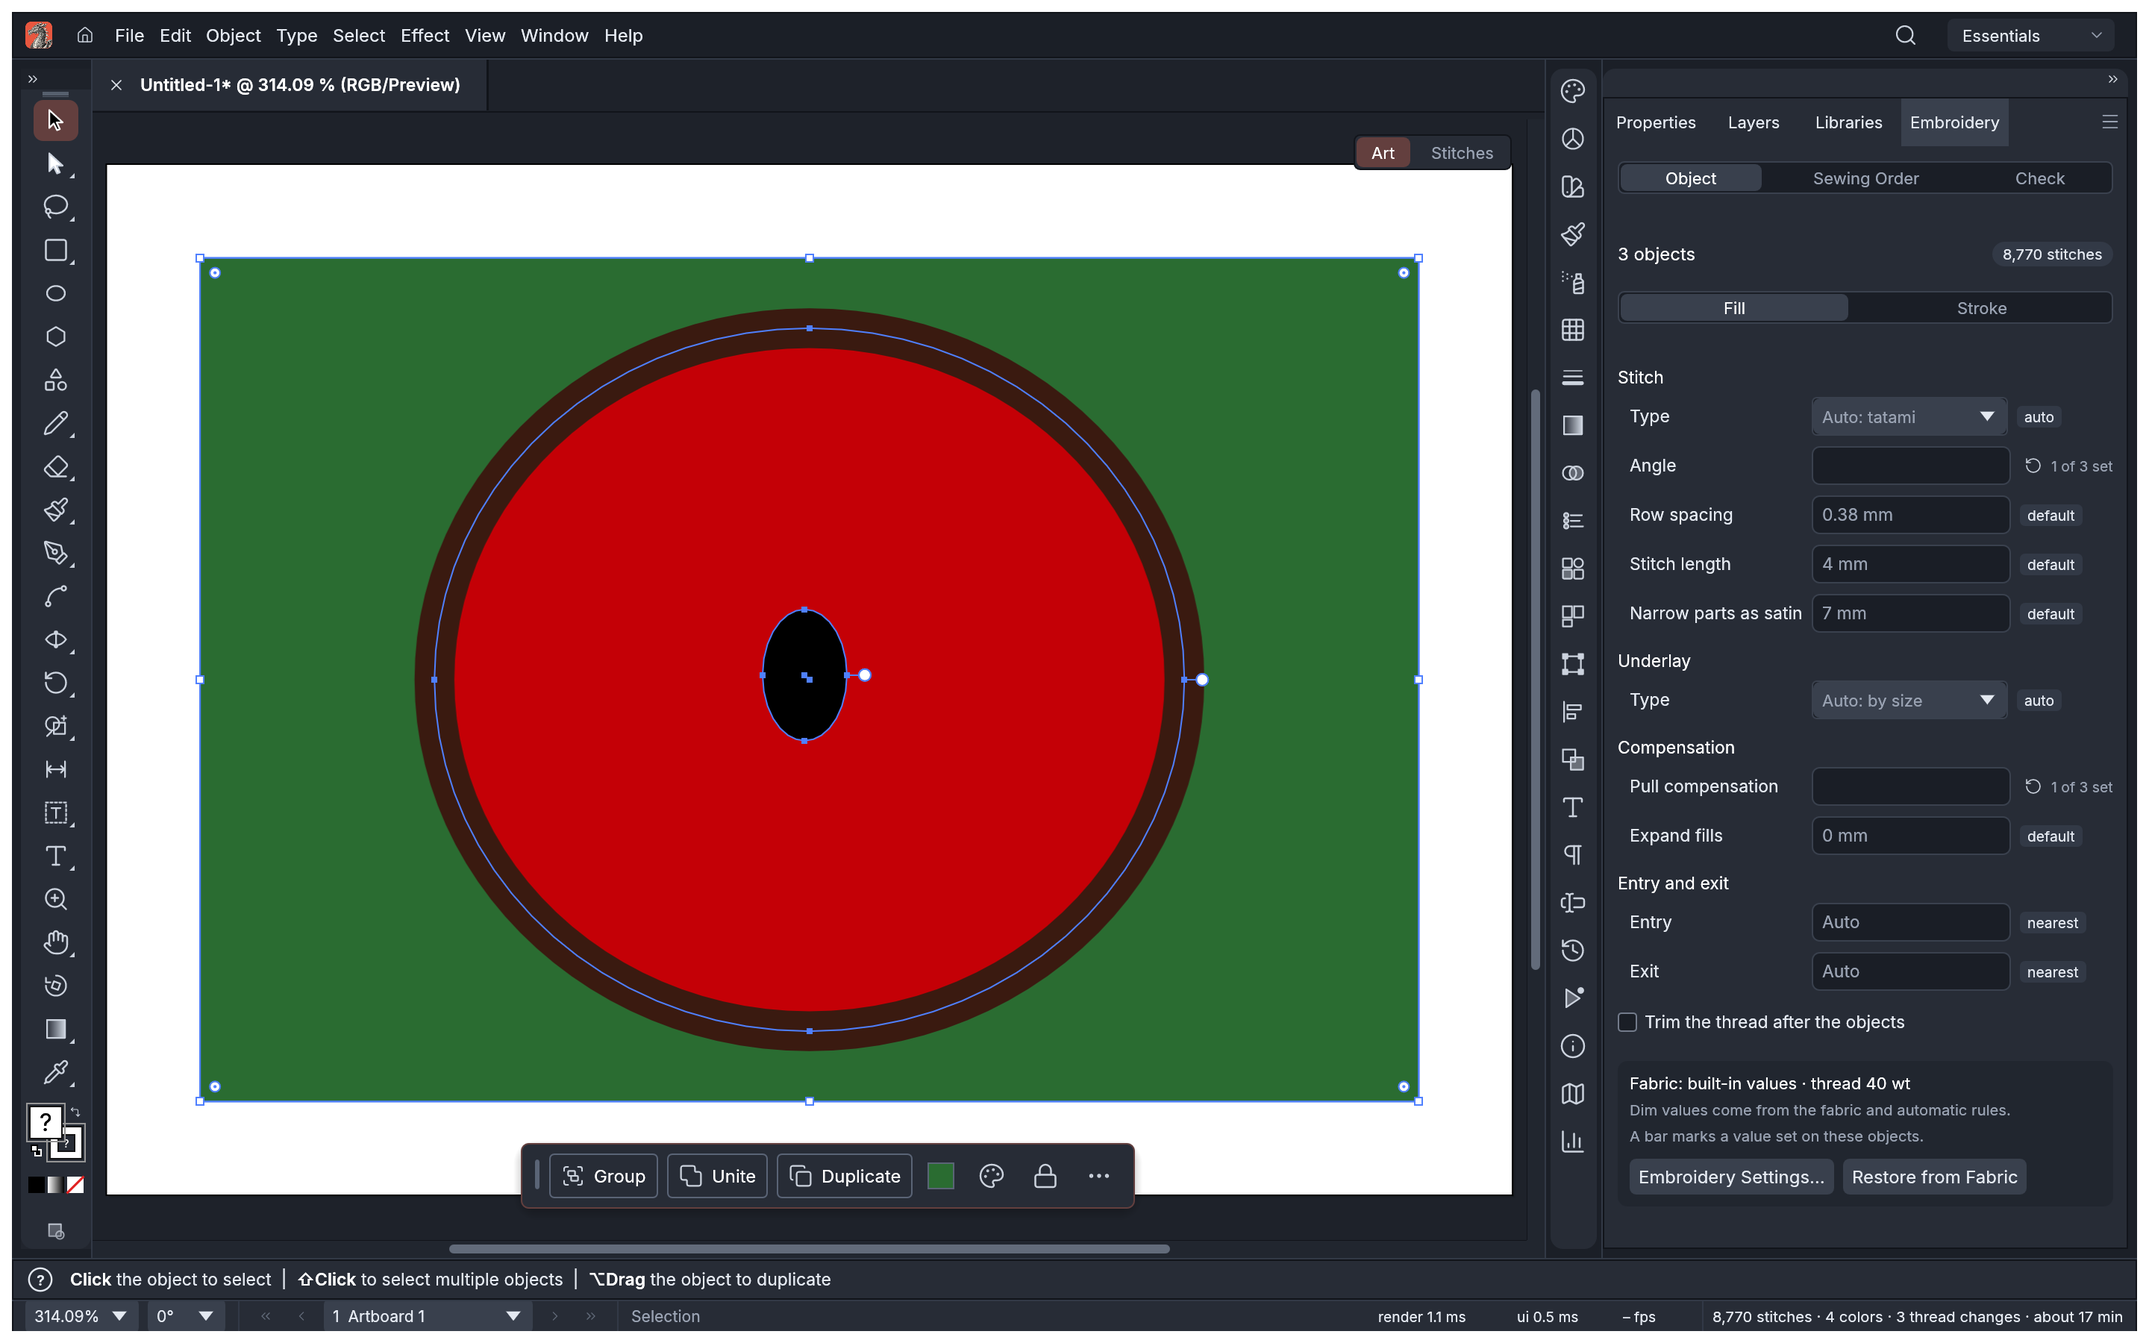
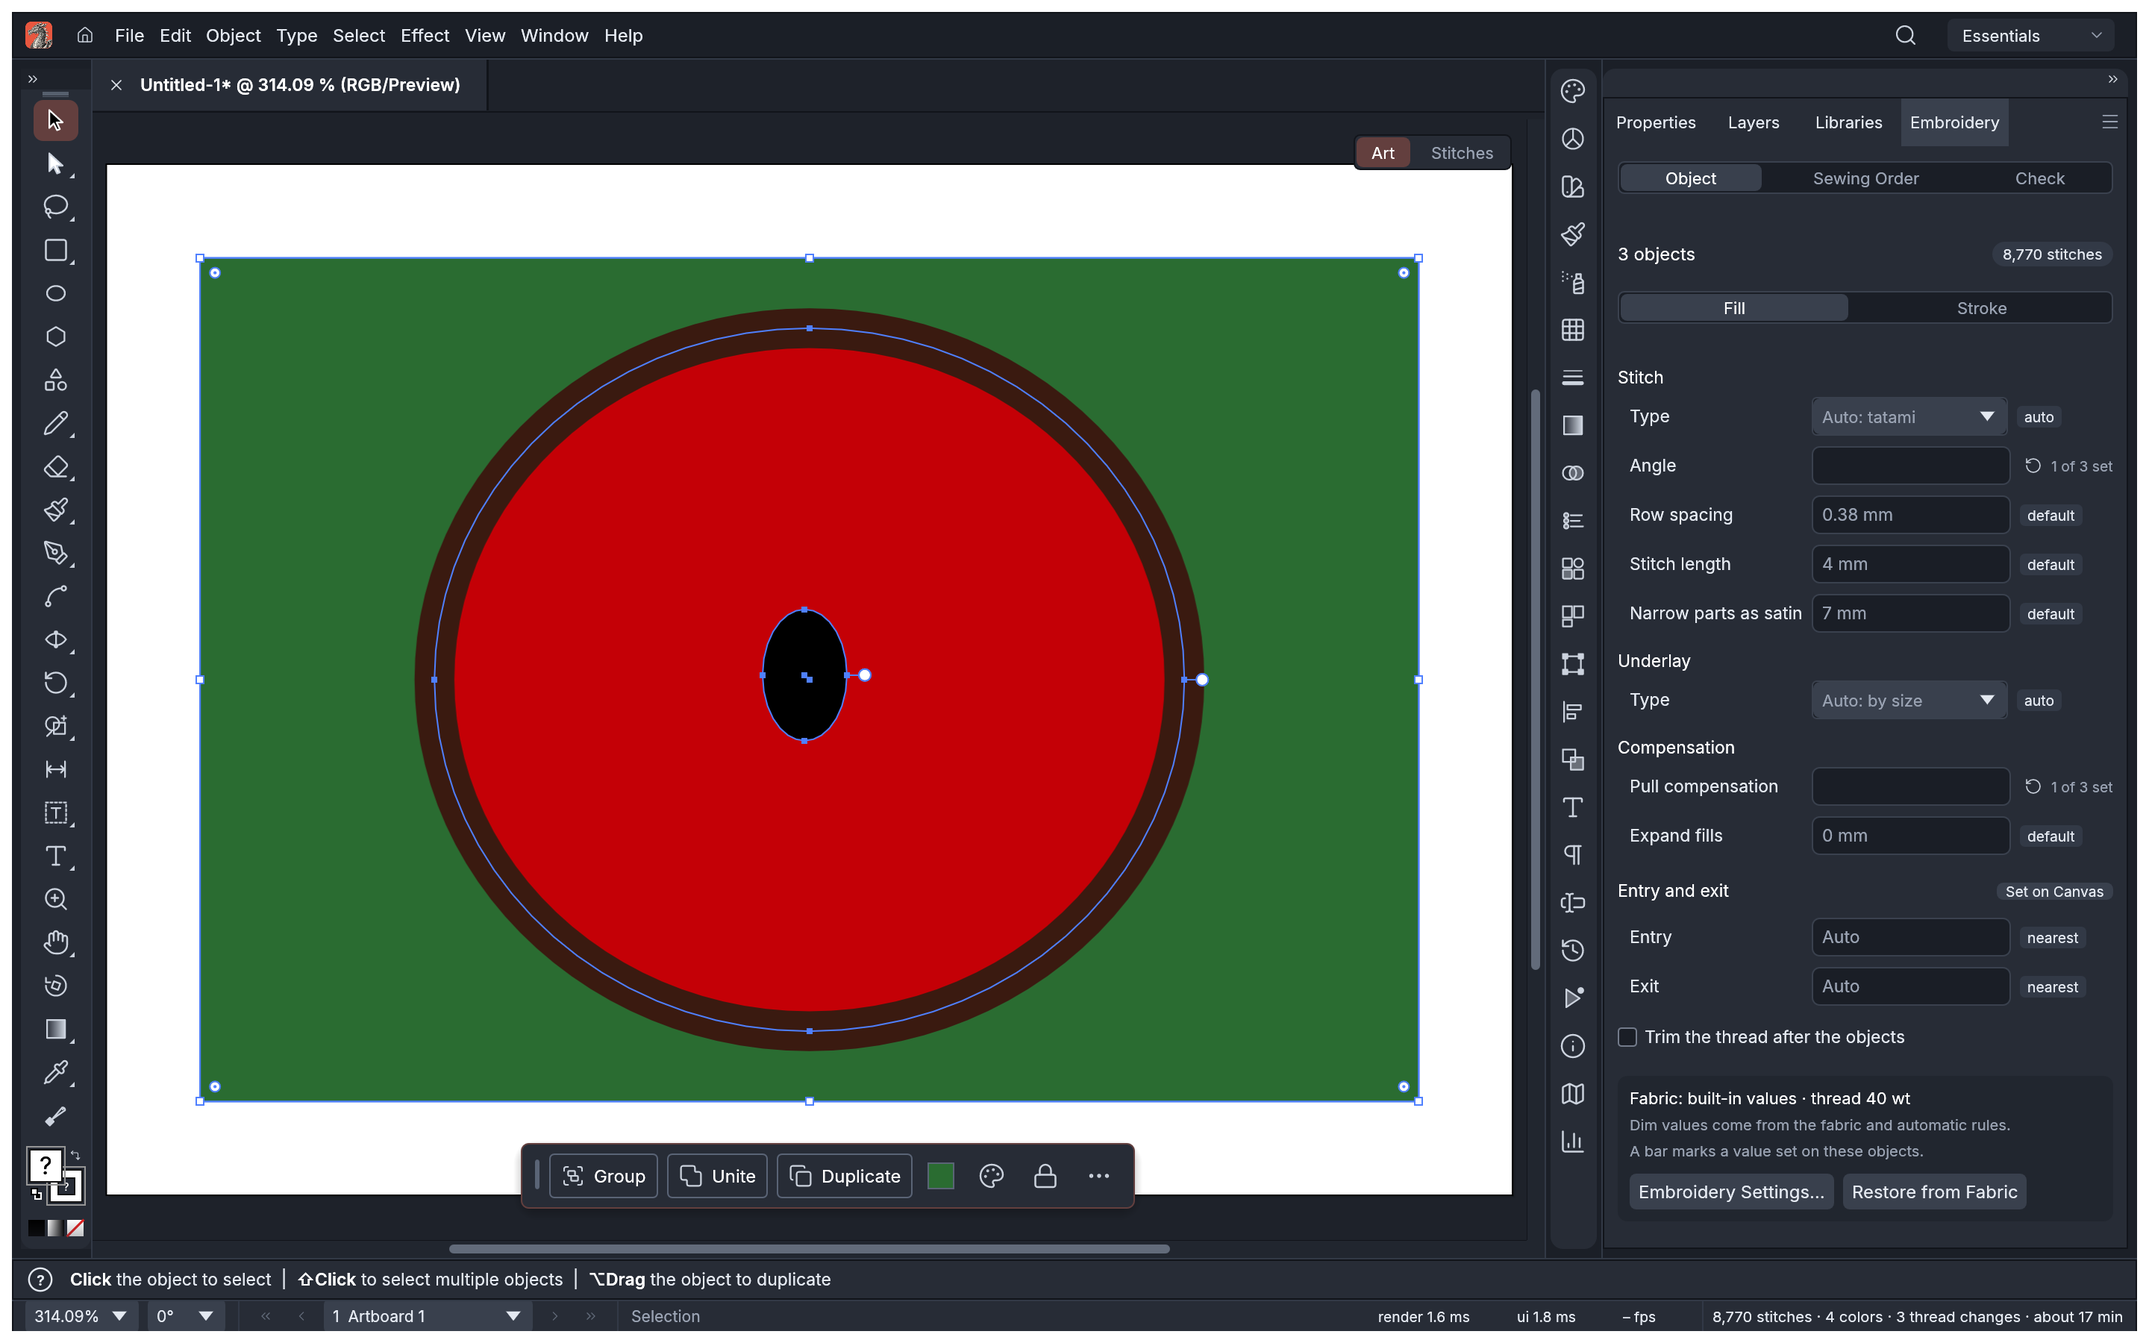
Embroidery tool: the in-app gate, and its pictures
The embroidery tool's gate (embroidery_tool_gate, run by hand on an idle machine, as the first
gate: 60 Hz, 1440 × 900 points at 2 pixels a point, the status bar and the Object tab drawn): on
each corpus SVG, the largest fill's entry pressed with the mouse and dragged along its outline a
move a frame, each frame timed and the plans taken in counted, then a step let go and timed until
the stitches drawn are fresh.

Measured twice (release, load 4 to 6): a drag frame's 95th percentile 7.8 to 8.1 ms at worst
(budget 16.7 ms), a step to fresh stitches 35.7 to 35.8 ms at worst (budget 100 ms); every corpus
design is light and follows the drag; a design slow to plan waits for a pause, as its test covers.
Recorded in Architecture › Planning for the stitch preview.

The pictures taken again with the tool in the toolbars and Set on Canvas in the Object tab, and
four of the tool (the stitch view, the art view, the point dialog, Polish), each with its ASSETS
row; Using it describes the tool, with three of them.

Changed region(s): [[0.75, 0.8089, 0.9375, 0.9022], [0.75, 0.6533, 0.9688, 0.7778], [0.0, 0.8089, 0.0625, 0.9333]]

diff --git a/crates/ui-egui/src/embroidery/tests_gate.rs b/crates/ui-egui/src/embroidery/tests_gate.rs
@@ -1,6 +1,6 @@
 //! The stitch preview's measurement gates, run by hand on an idle machine (left out of the usual
 //! test run: they time frames). The third gate, a drag on the canvas and an edit, then the Object
-//! tab's scrub ([`object_tab_scrub_gate`]):
+//! tab's scrub ([`object_tab_scrub_gate`]), and the embroidery tool's ([`embroidery_tool_gate`]):
 //!
 //! `cargo test --release -p vectorcraft-ui-egui --lib -- --ignored --nocapture stitch_preview_gate`
 //!
@@ -374,4 +374,137 @@ fn object_tab_scrub_gate() {
         "worst: step to fresh p95 {worst_step:.2} ms (budget {EDIT_TO_FRESH_BUDGET_MS}), frame p95 {worst_frame:.2} ms (budget {FRAME_BUDGET_MS:.1})"
     );
     assert!(worst_step <= EDIT_TO_FRESH_BUDGET_MS && worst_frame <= FRAME_BUDGET_MS);
+}
+
+/// A frame of a gate paced to the display → its wall time (milliseconds) and the clock after it.
+type Tick<'a> = dyn FnMut(&mut VectorcraftApp, Vec<Event>) -> (f64, f64) + 'a;
+
+/// The embroidery tool's gate (VectorCraft Stitch), run by hand on an idle machine:
+///
+/// `cargo test --release -p vectorcraft-ui-egui --lib -- --ignored --nocapture embroidery_tool_gate`
+///
+/// On each corpus design, as the first gate (the threads, 60 Hz, 1440 × 900 points at 2 pixels a
+/// point, the status bar and the Object tab drawn), with the embroidery tool: the largest fill of
+/// an object that takes settings selected, its entry pressed with the mouse and dragged along its
+/// outline a move a frame, then let go. Each frame of the drag is timed (its 95th percentile within
+/// a 60 Hz frame), and the plans taken in during it counted: a design light to plan follows the
+/// drag, one slow to plan plans none on the move (only on a pause, or once let go). Then, on a light
+/// design, the entry dragged a step and let go, timed until the stitches drawn are of the document
+/// as it is (within 100 ms).
+#[test]
+#[ignore = "a measurement, run by hand on an idle machine"]
+fn embroidery_tool_gate() {
+    use vectorcraft_doc::NodeKind;
+    use vectorcraft_tools::embroidery::Kind;
+    let dir = corpus();
+    let mut files: Vec<_> = std::fs::read_dir(&dir)
+        .map(|d| d.flatten().map(|e| e.path()).filter(|p| p.extension().is_some_and(|e| e == "svg")).collect())
+        .unwrap_or_default();
+    files.sort();
+    assert!(!files.is_empty(), "no corpus at {}", dir.display());
+    let (mut worst_p95, mut worst_fresh) = (0.0_f64, 0.0_f64);
+    println!(
+        "{:<52} {:>6} {:>9} {:>9} {:>9} {:>7} {:>11} {:>11}",
+        "design", "light", "drag p50", "drag p95", "drag max", "plans", "fresh p50", "fresh max"
+    );
+    for path in &files {
+        let ctx = egui::Context::default();
+        crate::theme::install_fonts(&ctx);
+        let mut session = Session::new();
+        session.execute("document.open", &json!({"path": path.to_string_lossy()})).unwrap();
+        let mut app = VectorcraftApp::new(session, Services::default());
+        app.ui.embroidery_panel.tab = crate::panels::embroidery::Tab::Object;
+        let plans = PlanWorker::start(&ctx).expect("the planning thread starts");
+        let lines = LineWorker::start(&ctx).expect("the stitch layer's thread starts");
+        app.embroidery.preview = StitchPreview::with_runner(Box::new(Driver::Thread(plans)));
+        app.embroidery.layer.use_worker(lines);
+        app.run("view.stitchPreview", json!({"on": true})).unwrap();
+        let mut time = 0.0;
+        let mut next = Instant::now();
+        let mut tick = |app: &mut VectorcraftApp, events: Vec<Event>| {
+            time += 1.0 / 60.0;
+            next += std::time::Duration::from_secs_f64(FRAME_BUDGET_MS / 1000.0);
+            let (ms, _) = frame(app, &ctx, time, events);
+            std::thread::sleep(next.saturating_duration_since(Instant::now()));
+            (ms, time)
+        };
+        let settle = |app: &mut VectorcraftApp, tick: &mut Tick<'_>, what: &str| {
+            let t0 = Instant::now();
+            loop {
+                let (_, now) = tick(app, vec![]);
+                if drawn_fresh(app, now) {
+                    return t0.elapsed().as_secs_f64() * 1000.0;
+                }
+                assert!(t0.elapsed().as_secs() < 30, "{}: never {what}", path.display());
+            }
+        };
+        settle(&mut app, &mut tick, "drawn");
+        // The largest fill of an object that takes settings.
+        let uid = app.session.active().unwrap().uid;
+        let scene = app.embroidery.preview.shown(uid).unwrap().planned.scene();
+        let doc = app.session.active().unwrap().doc.clone();
+        let mut best: Option<(f64, vectorcraft_doc::NodeId)> = None;
+        for u in scene.units() {
+            let (Some(b), vectorcraft_engine::cmd::embroidery::plan::Part::Fill(_)) = (u.bounds, u.key.part) else { continue };
+            let Some(n) = doc.node(u.object) else { continue };
+            if matches!(n.kind, NodeKind::Path { .. } | NodeKind::Compound { .. }) && best.is_none_or(|(a, _)| b.area() > a) {
+                best = Some((b.area(), u.object));
+            }
+        }
+        let Some((_, id)) = best else { continue };
+        app.run("select.set", json!({"ids": [id.0]})).unwrap();
+        app.run("tool.select", json!({"tool": "embroidery"})).unwrap();
+        for _ in 0..5 {
+            tick(&mut app, vec![]);
+        }
+        let light = app.embroidery.preview.live(uid);
+        let xf = crate::canvas::Xf::new(app.canvas_rect.unwrap(), app.view().unwrap());
+        let view = app.view_info();
+        let entry = app.session.embroidery_handles(view).0.into_iter().find(|h| h.id.kind == Kind::Entry && h.id.owner.part().0 == id);
+        let Some(entry) = entry else { continue };
+        let start = xf.to_screen(entry.at);
+        // Along the outline: the art's flattened outline, from the point nearest the entry.
+        let outline = super::handles::tests_outline(&doc, id);
+        let near = outline.iter().enumerate().min_by(|a, b| a.1.distance(entry.at).total_cmp(&b.1.distance(entry.at))).map_or(0, |(i, _)| i);
+        let button = |pos: Pos2, pressed| Event::PointerButton { pos, button: PointerButton::Primary, pressed, modifiers: Default::default() };
+        tick(&mut app, vec![Event::PointerMoved(start), button(start, true)]);
+        let taken = app.embroidery.preview.log.taken.len();
+        let mut drag = vec![];
+        let mut last = start;
+        for k in 1..=DRAG_FRAMES {
+            last = xf.to_screen(outline[(near + k * outline.len().max(1) / DRAG_FRAMES / 2) % outline.len().max(1)]);
+            let (ms, _) = tick(&mut app, vec![Event::PointerMoved(last)]);
+            drag.push(ms);
+        }
+        let plans = app.embroidery.preview.log.taken.len() - taken;
+        tick(&mut app, vec![button(last, false)]);
+        let mut fresh = vec![settle(&mut app, &mut tick, "fresh after the drag")];
+        if light {
+            for k in 0..EDITS {
+                let at =
+                    xf.to_screen(app.session.embroidery_handles(view).0.into_iter().find(|h| h.id.kind == Kind::Entry).map_or(entry.at, |h| h.at));
+                let to = at + egui::vec2(DRAG_STEP * (k % 3 + 1) as f32, DRAG_STEP);
+                tick(&mut app, vec![Event::PointerMoved(at), button(at, true)]);
+                tick(&mut app, vec![Event::PointerMoved(at + (to - at) / 2.0)]);
+                tick(&mut app, vec![Event::PointerMoved(to)]);
+                tick(&mut app, vec![button(to, false)]);
+                fresh.push(settle(&mut app, &mut tick, "fresh after a step"));
+            }
+        }
+        let (p50, p95, pmax) = (percentile(drag.clone(), 0.5), percentile(drag.clone(), 0.95), percentile(drag, 1.0));
+        let (f50, fmax) = (percentile(fresh.clone(), 0.5), percentile(fresh, 1.0));
+        let name = path.file_name().map(|n| n.to_string_lossy().to_string()).unwrap_or_default();
+        println!("{name:<52} {light:>6} {p50:>6.2} ms {p95:>6.2} ms {pmax:>6.2} ms {plans:>7} {f50:>8.2} ms {fmax:>8.2} ms");
+        worst_p95 = worst_p95.max(p95);
+        if light {
+            worst_fresh = worst_fresh.max(fmax);
+        }
+        if !light {
+            assert_eq!(plans, 0, "{name}: a design slow to plan planned on the move");
+        }
+    }
+    println!(
+        "worst: drag p95 {worst_p95:.2} ms (budget {FRAME_BUDGET_MS:.1}), light designs' step to fresh {worst_fresh:.2} ms (budget {EDIT_TO_FRESH_BUDGET_MS})"
+    );
+    assert!(worst_p95 <= FRAME_BUDGET_MS && worst_fresh <= EDIT_TO_FRESH_BUDGET_MS);
 }

diff --git a/crates/ui-egui/src/embroidery/handles.rs b/crates/ui-egui/src/embroidery/handles.rs
@@ -222,6 +222,19 @@ fn outline_of(doc: &vectorcraft_doc::Document, object: vectorcraft_doc::NodeId) 
     Some(path)
 }
 
+/// [`outline_of`] flattened, for the hand-run gate's drag along an object's outline.
+#[cfg(test)]
+pub(crate) fn tests_outline(doc: &vectorcraft_doc::Document, object: vectorcraft_doc::NodeId) -> Vec<vectorcraft_geom::Point> {
+    let mut pts = Vec::new();
+    if let Some(bp) = outline_of(doc, object) {
+        vectorcraft_geom::kurbo::flatten(bp.iter(), 0.5, |el| match el {
+            vectorcraft_geom::PathEl::MoveTo(p) | vectorcraft_geom::PathEl::LineTo(p) => pts.push(p),
+            _ => {}
+        });
+    }
+    pts
+}
+
 fn dark() -> Color32 {
     Color32::from_rgb(MARK_DARK[0], MARK_DARK[1], MARK_DARK[2])
 }

diff --git a/docs/embroidery.md b/docs/embroidery.md
@@ -608,6 +608,28 @@ as Melco's checker reads it, on each object's settings, it flags none.
   through them, and rings mark them on the canvas.
 - **The status bar** shows the design's figures (stitches, colours, thread changes, the time) while
   the stitches or the panel are shown; a click opens the panel.
+- **The Embroidery Tool** („Narzędzie Haft”, in the toolbars' Embroidery group, no default
+  shortcut; also the Object tab's Set on Canvas) shows the selected objects' entry ◆ and exit ⊕
+  points on the canvas, in the art view and the stitch view, of the part the Object tab shows (at
+  most 32 objects): solid where set, hollow where left to the planner (where the plan shown sews
+  them), dim while the plan catches up with an edit; a point set where the stitches can't start
+  has a hairline to where they do. Drag a point to move it: it is taken to the nearest place the
+  stitches can start or end, a dashed line joins it to where the needle comes from or goes next
+  with the jump's length ("jump 12.5 mm, cut" past the trim length), and letting go keeps it, one
+  undo step; Escape cancels. A design slow to plan is planned when the drag pauses (0.3 s) or ends,
+  and the status bar says so. Alt-click, or Delete, puts a point back to Auto; the arrow keys nudge
+  the point last pressed by the keyboard increment (Shift ten times), `[` and `]` step from point
+  to point, and Enter or a double-click opens its Entry Point or Exit Point dialog (X and Y in the
+  rulers' unit, from their origin, or Auto). A click on an
+  object's art or its stitches selects it, Shift-click adds it or takes it away; the object a click
+  would select is outlined. Nearest Connection (the panel's ≡ menu) sets every point at once for the
+  shortest jumps.
+
+  ![The Embroidery Tool in the stitch view: a red disc's fill with its entry set and its exit left to the planner](images/embroidery-tool-stitches.png)
+
+  ![The Entry Point dialog: X and Y in the rulers' unit, or Auto](images/embroidery-tool-point-dialog.png)
+
+  ![The Embroidery Tool in Polish, the Object tab's Set on Canvas by Entry and exit](images/embroidery-tool-polish.png)
 
 How it is planned and drawn: [Planning for the stitch preview](#planning-for-the-stitch-preview)
 and [Drawing stitches](#drawing-stitches), under Architecture.
@@ -1994,6 +2016,23 @@ built, twice; `perf --embroidery`, a dry run on the whole design once its plan i
 Every part it joins gets points, so the plan of its result plans nearly every unit afresh, and a
 second round plans what the first moved: on the largest design that is seconds, run on the
 interface thread as every command is (a limit, below).
+
+The embroidery tool's in-app gate (2026-10-26, release, the same machine, load about 4 to 6,
+twice; `embroidery_tool_gate`, as the first gate: 60 Hz, 1440 × 900 points at 2 pixels a point,
+the status bar and the Object tab drawn): on each of the corpus's eleven SVG designs, the largest
+fill's entry pressed with the mouse and dragged along its outline a move a frame, then a step let
+go and timed until the stitches drawn are of the document as it is:
+
+| Row | Measured | Budget |
+|---|---:|---:|
+| A frame of the drag, 95th percentile, worst design | 7.8–8.1 ms | 16.7 ms (60 Hz) |
+| A step to its stitches drawn fresh, worst design | 35.7–35.8 ms | 100 ms |
+| A step to fresh, median per design | 16.5–18.6 ms | |
+| The slowest single frame of a drag (a plan taken in) | 19.2–20.4 ms | |
+
+All eleven plan within `LIVE_PLAN_MS`, so each followed the drag (7 to 45 plans taken in during
+it); none is slow enough to wait for a pause, which the tests cover on a design pinned heavy
+(`a_pause_in_a_drag_plans_a_design_slow_to_plan`). A step's time falls on whole frames (one or two).
 
 ### Drawing stitches
 

diff --git a/ASSETS.md b/ASSETS.md
@@ -337,6 +337,10 @@ Generated-in-code art is original and has no file to list. This covers the defau
 | `docs/images/embroidery-document-setup.png` | VectorCraft Stitch contributors | Screenshot of VectorCraft Stitch itself (VectorCraft/Lucide UI icons only; drawn offscreen by `crates/ui-egui/src/embroidery/tests_shots.rs`), of art the test draws | MIT OR Apache-2.0 |  |
 | `docs/images/embroidery-document-setup-polish.png` | VectorCraft Stitch contributors | Screenshot of VectorCraft Stitch itself (VectorCraft/Lucide UI icons only; drawn offscreen by `crates/ui-egui/src/embroidery/tests_shots.rs`), of art the test draws, the interface in Polish | MIT OR Apache-2.0 |  |
 | `docs/images/embroidery-object-tab-polish.png` | VectorCraft Stitch contributors | Screenshot of VectorCraft Stitch itself (VectorCraft/Lucide UI icons only; drawn offscreen by `crates/ui-egui/src/embroidery/tests_shots.rs`), of art the test draws, the interface in Polish | MIT OR Apache-2.0 |  |
+| `docs/images/embroidery-tool-stitches.png` | VectorCraft Stitch contributors | Screenshot of VectorCraft Stitch itself (VectorCraft/Lucide UI icons only; drawn offscreen by `crates/ui-egui/src/embroidery/tests_shots.rs`), of art the test draws, the interface in Polish | MIT OR Apache-2.0 |  |
+| `docs/images/embroidery-tool-art.png` | VectorCraft Stitch contributors | Screenshot of VectorCraft Stitch itself (VectorCraft/Lucide UI icons only; drawn offscreen by `crates/ui-egui/src/embroidery/tests_shots.rs`), of art the test draws, the interface in Polish | MIT OR Apache-2.0 |  |
+| `docs/images/embroidery-tool-point-dialog.png` | VectorCraft Stitch contributors | Screenshot of VectorCraft Stitch itself (VectorCraft/Lucide UI icons only; drawn offscreen by `crates/ui-egui/src/embroidery/tests_shots.rs`), of art the test draws, the interface in Polish | MIT OR Apache-2.0 |  |
+| `docs/images/embroidery-tool-polish.png` | VectorCraft Stitch contributors | Screenshot of VectorCraft Stitch itself (VectorCraft/Lucide UI icons only; drawn offscreen by `crates/ui-egui/src/embroidery/tests_shots.rs`), of art the test draws, the interface in Polish | MIT OR Apache-2.0 |  |
 | `docs/images/art-still-life.png` | VectorCraft contributors | Rendered by VectorCraft from `examples/still-life.vectorcraft` | MIT OR Apache-2.0 |  |
 | `examples/still-life.vectorcraft` | VectorCraft contributors | Original artwork built through the VectorCraft command API | MIT OR Apache-2.0 |  |
 | `examples/bracket-drawing.vectorcraft` | VectorCraft contributors | Original drawing built through the VectorCraft command API | MIT OR Apache-2.0 |  |
